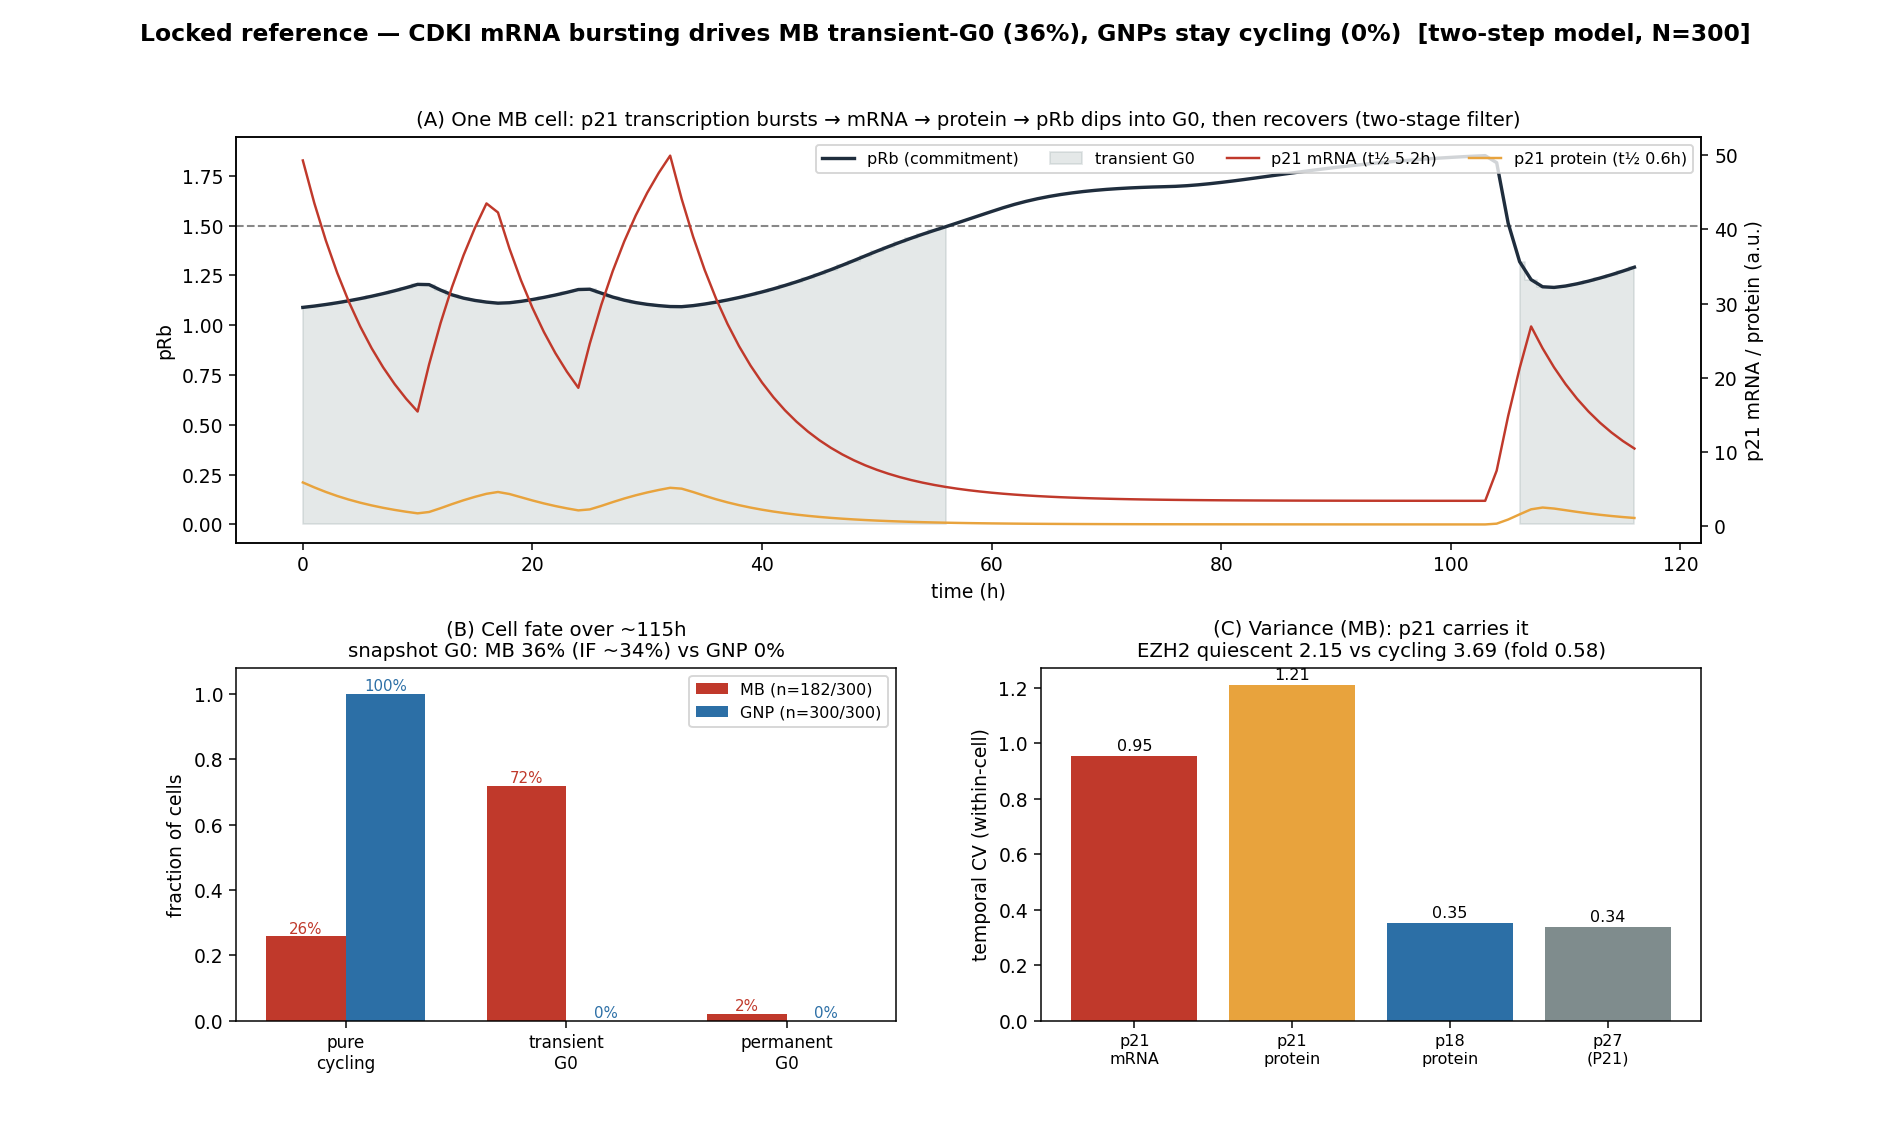
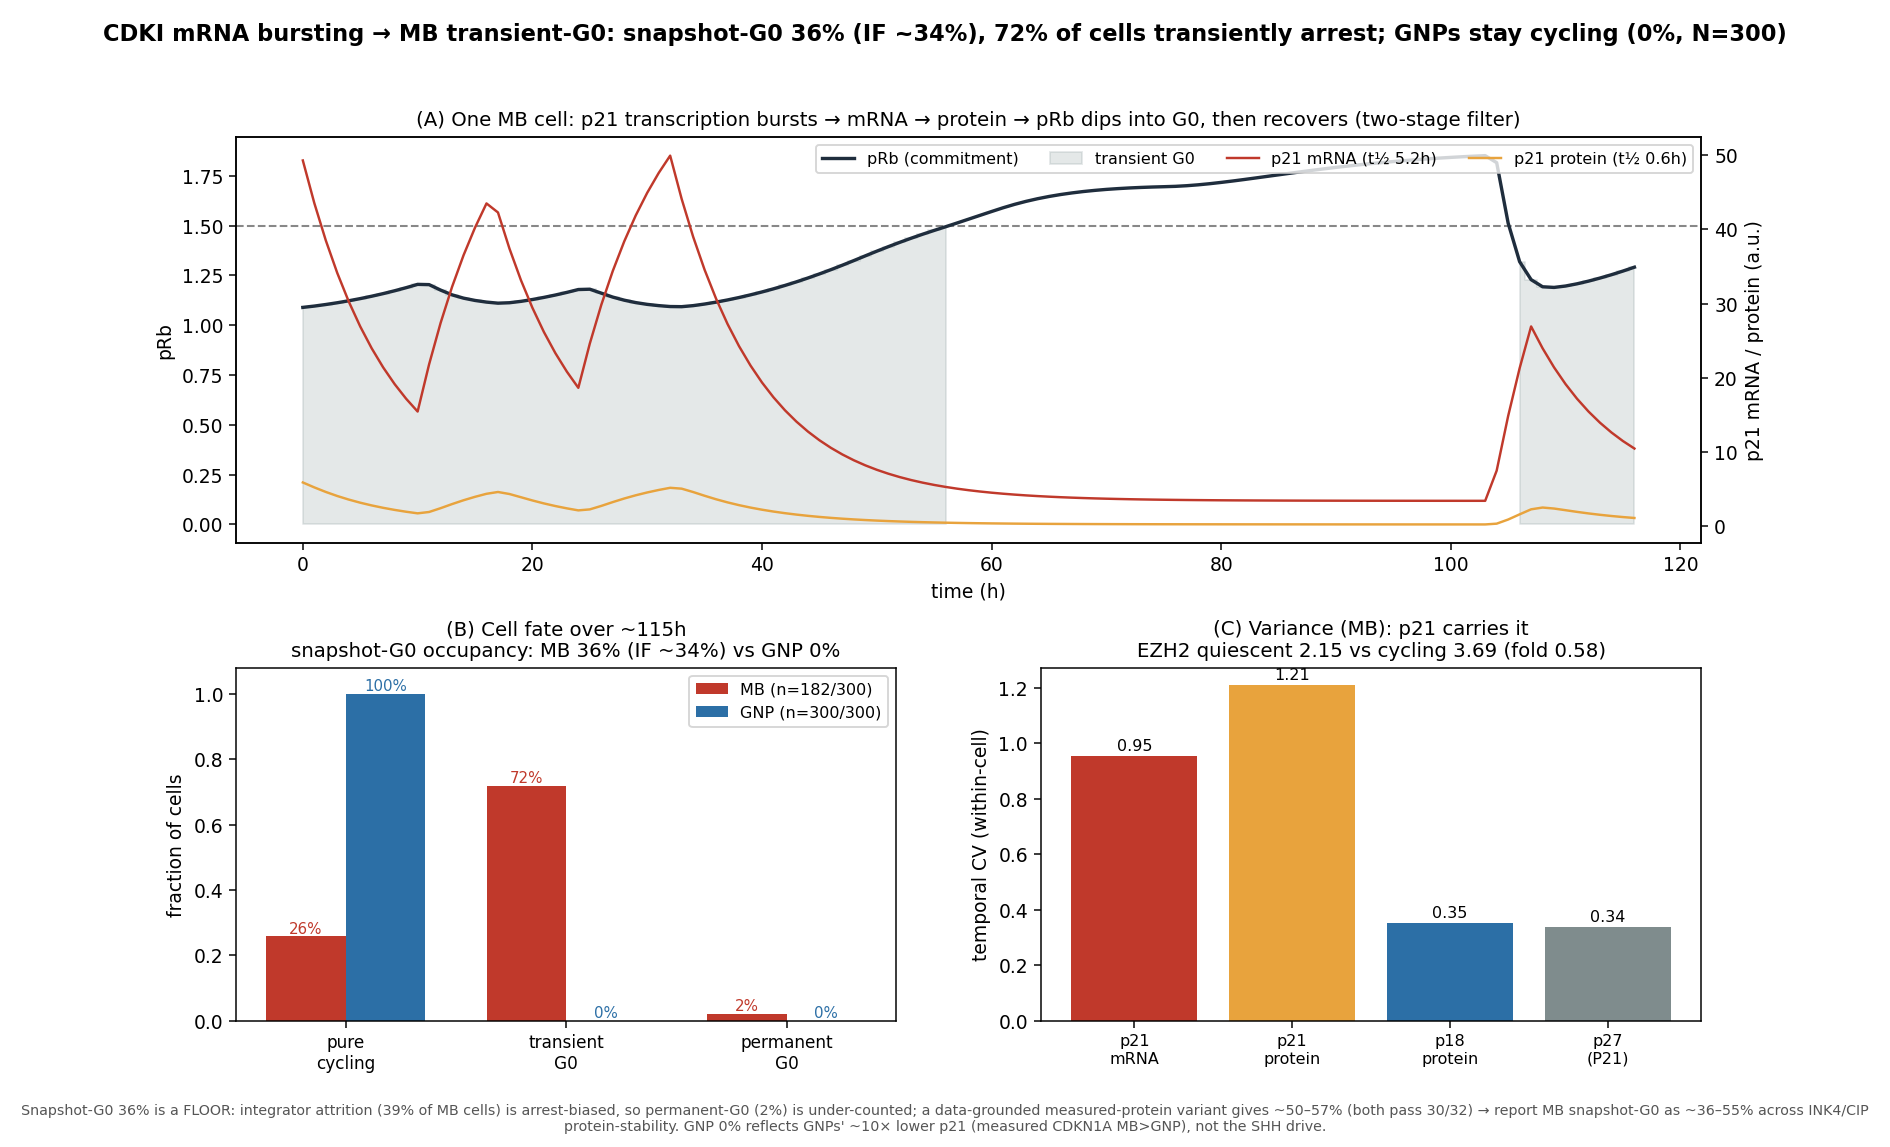
Lockdown review fixes: relabel snapshot-G0, honest range, drop stale figure
Post-review precision fixes (independent 4-dimension review confirmed the model/bake
are correct and steady-state-neutral; these are write-up/figure fixes only):
- Relabel "36% transient-G0" -> "snapshot-G0 occupancy 36%" (IF-comparable ~34%);
  state the transient-G0 CELL fraction (72%) separately. fig_overnight.py title/panel B,
  SUMMARY.md, memory. The 36% is the fraction of TIME in G0, not of cells.
- Report MB snapshot-G0 as a range ~36-55% (a FLOOR): the ~39% MB integrator attrition
  is arrest-biased so arrest/permanent are under-counted, and the data-grounded
  measured-protein variant gives ~50-57% while also passing 30/32. Caveats added to
  fig_overnight_lock.png footer, SUMMARY.md, and sim_overnight_master.py's writer.
- Frame GNP=0% as carried by GNPs' ~10x lower p21 (measured CDKN1A MB>GNP), not the SHH
  drive (at MB-level p21, GNP also arrests).
- "cures the integrator mortality" -> "reduces" (GNP 0%, MB ~50%->~39%, not eliminated):
  build_model_v44_heldt.py:459, sim_cdki_mrna_burst_g0.py docstring.
- Drop fig_cdki_mrna_burst.py: hardcoded an ephemeral scratchpad path (non-reproducible)
  and plotted a non-canonical 41%/N=100 run; fig_overnight.py (N=300, reads committed
  results.json) is the canonical figure.
- sim_ezh2_phaseplane.py: add with_cdk6_gli=False (pre-existing crash in the figure
  pipeline: the baked CDK6-Gli amplifier needs the H3K27 chain, absent in that script).
[…]

diff --git a/simulations/sim_pulse_response.py b/simulations/sim_pulse_response.py
@@ -1,0 +1,93 @@
+"""How does protein respond to a transcriptional burst, in our model? (JP 2026-10-19)
+
+Controlled pulse experiment on the baked two-step model (with_cdki_mrna): hold a cycling cell at steady
+state, then apply a defined square BURST to a CDKI's transcription knob (*_tx: 1 -> AMP for DUR, then back
+to 1), and record the transcription input, the mRNA species, and the protein species.
+
+We use p18 as the clean demonstrator: its expression module (transcription -> p18_m -> p18_prot) is fully
+DECOUPLED from the cell cycle (no E2f / Skp2 / Cdh1 / division terms), so the traces are the PURE two-stage
+low-pass with no confounds. Panel A: the canonical response (input -> mRNA -> protein). Panel B: the SAME
+burst with the protein half-life set to 0.6h (p21-like), 3.9h (p18 model-tuned) and 23.9h (p18 measured) --
+mRNA stage held fixed -- to show that a stable protein filters the burst out. p21/p27 map onto the fast/slow
+ends of this axis; p21's short protein is why it (not p18/p27) transmits bursts into transient-G0.
+"""
+import os, sys, numpy as np, tellurium as te
+sys.path.insert(0, os.path.dirname(os.path.dirname(os.path.abspath(__file__))))
+from src.build_model_v44_heldt import build_model_v44
+import matplotlib; matplotlib.use('Agg'); import matplotlib.pyplot as plt
+
+LN2 = 0.6931471805599453
+WARM = 9000.0          # long warmup so even a 24h-protein settles to steady state
+REC = 4800.0           # 80 h record window
+DTR = 15.0             # fine recording step (min)
+PULSE_T0 = 600.0       # burst starts 10 h into the record
+PULSE_DUR = 480.0      # 8 h burst
+AMP = 4.0              # transcription x4 during the burst
+SEL = ['p18_m', 'p18_prot']
+
+
+def run_pulse(kDe_p18_override=None):
+    """Warm up a cycling MB cell, then apply the p18 transcription burst; return t, tx(t), mRNA(t), prot(t)."""
+    rr = te.loada(build_model_v44())                 # baked default = two-step
+    rr.integrator.setValue('relative_tolerance', 1e-7); rr.integrator.setValue('absolute_tolerance', 1e-9)
+    rr.integrator.setValue('maximum_num_steps', 20000000)
+    rr['SHH'] = 0.5; rr['Ptch1_copy_number'] = 0.3
+    try: rr['Cd2_expr'] = rr['CD2_EXPR_MB']
+    except Exception: pass
+    if kDe_p18_override is not None:
+        rr['kDe_p18'] = kDe_p18_override             # protein decay (also scales synthesis; self-normalizing -> ss = p18)
+    rr['p18_tx'] = 1.0
+    rr.simulate(0, WARM, 50)                         # settle
+    t, tx, mr, pr = [], [], [], []
+    clock = 0.0
+    while clock < REC:
+        in_pulse = PULSE_T0 <= clock < PULSE_T0 + PULSE_DUR
+        rr['p18_tx'] = AMP if in_pulse else 1.0
+        r = rr.simulate(clock, clock + DTR, 2, selections=SEL)
+        t.append(clock + DTR); tx.append(AMP if in_pulse else 1.0)
+        mr.append(float(r['p18_m'][-1])); pr.append(float(r['p18_prot'][-1]))
+        clock += DTR
+    t = np.array(t) / 60.0                            # hours
+    mr = np.array(mr); pr = np.array(pr)
+    base = slice(0, int(PULSE_T0 / DTR) - 1)          # pre-pulse baseline for fold-normalisation
+    return t, np.array(tx), mr / np.mean(mr[base]), pr / np.mean(pr[base])
+
+
+# Panel A: canonical response (model-tuned p18, t1/2 3.9h)
+tA, txA, mrA, prA = run_pulse()
+# Panel B: protein-stability sweep (same mRNA stage; protein t1/2 = 0.6 / 3.9 / 23.9 h)
+cases = [('p21-like 0.6 h', LN2 / (0.6 * 60), '#c0392b'),
+         ('p18 tuned 3.9 h', LN2 / (3.9 * 60), '#e8a33d'),
+         ('p18 measured 23.9 h', LN2 / (23.9 * 60), '#2c6fa6')]
+sweep = [(lab, col, run_pulse(k)) for lab, k, col in cases]
+
+fig, (axA, axB) = plt.subplots(1, 2, figsize=(14, 5.4))
+fig.suptitle("How protein responds to a transcriptional burst (two-step model): transcription → mRNA → protein, each filtered by its half-life",
+             fontsize=12.5, fontweight='bold')
+
+# A
+axA.axvspan(PULSE_T0/60, (PULSE_T0+PULSE_DUR)/60, color='#ddd', alpha=0.6, lw=0, label='burst (tx ×4, 8 h)')
+axA.plot(tA, txA, color='#777', lw=1.4, ls=':', label='transcription rate (input)')
+axA.plot(tA, mrA, color='#c0392b', lw=2.0, label='p18 mRNA (t½ 3.7 h)')
+axA.plot(tA, prA, color='#1f6f54', lw=2.2, label='p18 protein (t½ 3.9 h)')
+axA.set_xlabel('time (h)'); axA.set_ylabel('fold vs baseline'); axA.legend(fontsize=9, loc='upper right')
+axA.set_title("(A) A step in transcription → mRNA rises/decays at its t½,\nprotein lags & smooths further — a two-stage low-pass", fontsize=10.5)
+axA.axhline(1, color='#ccc', lw=0.8)
+
+# B
+axB.axvspan(PULSE_T0/60, (PULSE_T0+PULSE_DUR)/60, color='#ddd', alpha=0.6, lw=0, label='burst (tx ×4, 8 h)')
+for lab, col, (t, tx, mr, pr) in sweep:
+    axB.plot(t, pr, color=col, lw=2.2, label=f'protein {lab}')
+axB.plot(tA, mrA, color='#555', lw=1.3, ls='--', label='mRNA (shared, t½ 3.7 h)')
+axB.axhline(1, color='#ccc', lw=0.8)
+axB.set_xlabel('time (h)'); axB.set_ylabel('protein fold vs baseline'); axB.legend(fontsize=9, loc='upper right')
+axB.set_title("(B) Same burst, protein t½ varied (mRNA stage fixed):\nstable protein filters the burst out — why p21 (fast) transmits it, p18/p27 (stable) buffer", fontsize=10.5)
+
+plt.tight_layout(rect=[0, 0, 1, 0.93])
+out = os.path.join(os.path.dirname(os.path.abspath(__file__)), 'overnight', 'fig_pulse_response.png')
+plt.savefig(out, dpi=140); print('saved', out)
+# quick numeric summary
+peak_m = mrA.max(); peak_p = prA.max()
+print(f"p18 (tuned): mRNA peak {peak_m:.2f}x, protein peak {peak_p:.2f}x fold")
+for lab, col, (t, tx, mr, pr) in sweep:
+    print(f"  protein peak [{lab}]: {pr.max():.2f}x")

diff --git a/src/build_model_v44_heldt.py b/src/build_model_v44_heldt.py
@@ -456,7 +456,7 @@ def build_model_v44(hu=None, with_ezh2=True, with_hh=True, with_growth=True,
                     with_p27_optionB=True, with_cdk6_gli=True, with_cd_hyper_escape=True,
                     with_mark_amplifier=False, with_proximal_distal=True,
                     measured_ccnd1=True, with_cdki_mrna=True, cdki_measured_protein=False,
-                    params=None):   # 2026-10-18 BAKED (JP overnight): with_cdki_mrna ON = default. Two-step CDKI expression (transcription->mRNA species->translation->protein); each CDKI carries an independent MEASURED mRNA t1/2 (~3.4-5.2h) + its protein t1/2; steady-state-neutral (30/32 = prior baseline); burst knobs *_tx don't leak to mu_eff; mRNA low-pass also removes the deep-arrest integrator stiffness. Legacy single-step via with_cdki_mrna=False. cdki_measured_protein (default OFF) additionally sets the INK4 p18 + p21 protein t1/2 to measured values.   # 2026-09-21 BAKED (JP): with_proximal_distal ON = default (two-compartment PRC2: distal Mk reservoir + proximal P_prox occupancy; expressed-but-marked while cycling P_prox~0, deep reservoir-sustained repression in arrest P_prox~0.70; MB transient G0 preserved via escape). Costs 1 noisy target (CyclinD1 GNP+HHi/GNP 0.08 vs 0.157) -> 30/32; loss is structural (deeper arrest raises shared mark), not w_cd_prox (barely moves it). Legacy via with_proximal_distal=False (31/32). 2026-08-09 BAKED: integrated governor (optionB p27 + CDK6-Gli 2nd arm) + CDK4/6-alone escape (MB transient G0). Legacy via the flags=False. 2026-07-30 BAKED: dynamic CDKI. 2026-08-01 BAKED: with_p21_pip_degron (un-map — restore inherited PIP-degron machinery p27->p21; species-correct re-cal, 30/32). 2026-08-05: with_p27_optionB (EXPLORATION, default OFF; Fan-Meyer p27-inhibitory CDK4/6 — buffered p27 = INACTIVE Cd, not counted in the Rb drive; needs re-cal before default)
+                    params=None):   # 2026-10-18 BAKED (JP overnight): with_cdki_mrna ON = default. Two-step CDKI expression (transcription->mRNA species->translation->protein); each CDKI carries an independent MEASURED mRNA t1/2 (~3.4-5.2h) + its protein t1/2; steady-state-neutral (30/32 = prior baseline); burst knobs *_tx don't leak to mu_eff; mRNA low-pass REDUCES (does not eliminate) the deep-arrest integrator stiffness (GNP mortality 0%, MB ~50%->~39%). Legacy single-step via with_cdki_mrna=False. cdki_measured_protein (default OFF) additionally sets the INK4 p18 + p21 protein t1/2 to measured values.   # 2026-09-21 BAKED (JP): with_proximal_distal ON = default (two-compartment PRC2: distal Mk reservoir + proximal P_prox occupancy; expressed-but-marked while cycling P_prox~0, deep reservoir-sustained repression in arrest P_prox~0.70; MB transient G0 preserved via escape). Costs 1 noisy target (CyclinD1 GNP+HHi/GNP 0.08 vs 0.157) -> 30/32; loss is structural (deeper arrest raises shared mark), not w_cd_prox (barely moves it). Legacy via with_proximal_distal=False (31/32). 2026-08-09 BAKED: integrated governor (optionB p27 + CDK6-Gli 2nd arm) + CDK4/6-alone escape (MB transient G0). Legacy via the flags=False. 2026-07-30 BAKED: dynamic CDKI. 2026-08-01 BAKED: with_p21_pip_degron (un-map — restore inherited PIP-degron machinery p27->p21; species-correct re-cal, 30/32). 2026-08-05: with_p27_optionB (EXPLORATION, default OFF; Fan-Meyer p27-inhibitory CDK4/6 — buffered p27 = INACTIVE Cd, not counted in the Rb drive; needs re-cal before default)
     """Build v44 = Heldt 2018 core + mitotic switch + HU->fork-speed coupling.
 
     with_ezh2=True (default): add the EZH2 epigenetic layer and make CyclinD (Cd) dynamic.

diff --git a/simulations/fig_overnight.py b/simulations/fig_overnight.py
@@ -10,8 +10,8 @@ DT = 30.0; THR = 1.5
 
 # ---------- Figure 1: locked reference ----------
 fig = plt.figure(figsize=(14, 8.5))
-fig.suptitle(f"Locked reference — CDKI mRNA bursting drives MB transient-G0 ({mb['occ']:.0%}), GNPs stay cycling ({gnp['occ']:.0%})  [two-step model, N={mb['N']}]",
-             fontsize=12.5, fontweight='bold')
+fig.suptitle(f"CDKI mRNA bursting → MB transient-G0: snapshot-G0 {mb['occ']:.0%} (IF ~34%), {mb['transient']:.0%} of cells transiently arrest; GNPs stay cycling ({gnp['occ']:.0%}, N={mb['N']})",
+             fontsize=12, fontweight='bold')
 gs = fig.add_gridspec(2, 2, height_ratios=[1.15, 1], hspace=0.33, wspace=0.22)
 
 axA = fig.add_subplot(gs[0, :])
@@ -34,7 +34,7 @@ axB.bar(x + w/2, [gnp['cyc'], gnp['transient'], gnp['perm']], w, color='#2c6fa6'
 for xi, v in zip(x - w/2, [mb['cyc'], mb['transient'], mb['perm']]): axB.text(xi, v + 0.01, f'{v:.0%}', ha='center', fontsize=8, color='#c0392b')
 for xi, v in zip(x + w/2, [gnp['cyc'], gnp['transient'], gnp['perm']]): axB.text(xi, v + 0.01, f'{v:.0%}', ha='center', fontsize=8, color='#2c6fa6')
 axB.set_xticks(x); axB.set_xticklabels(cats, fontsize=9); axB.set_ylim(0, 1.08); axB.set_ylabel('fraction of cells'); axB.legend(fontsize=8.5)
-axB.set_title(f"(B) Cell fate over ~115h\nsnapshot G0: MB {mb['occ']:.0%} (IF ~34%) vs GNP {gnp['occ']:.0%}", fontsize=10.5)
+axB.set_title(f"(B) Cell fate over ~115h\nsnapshot-G0 occupancy: MB {mb['occ']:.0%} (IF ~34%) vs GNP {gnp['occ']:.0%}", fontsize=10.5)
 
 axC = fig.add_subplot(gs[1, 1])
 labels = ['p21\nmRNA', 'p21\nprotein', 'p18\nprotein', 'p27\n(P21)']
@@ -43,7 +43,12 @@ axC.bar(range(4), vals, color=['#c0392b', '#e8a33d', '#2c6fa6', '#7f8c8d'])
 for i, v in enumerate(vals): axC.text(i, v + 0.02, f'{v:.2f}', ha='center', fontsize=8.5)
 axC.set_xticks(range(4)); axC.set_xticklabels(labels, fontsize=8.5); axC.set_ylabel('temporal CV (within-cell)')
 axC.set_title(f"(C) Variance (MB): p21 carries it\nEZH2 quiescent {mb['ezh2_q']:.2f} vs cycling {mb['ezh2_c']:.2f} (fold {mb['ezh2_q']/mb['ezh2_c']:.2f})", fontsize=10.5)
-plt.tight_layout(rect=[0, 0, 1, 0.95])
+fig.text(0.5, 0.012,
+         f"Snapshot-G0 {mb['occ']:.0%} is a FLOOR: integrator attrition ({mb['mortality']:.0%} of MB cells) is arrest-biased, so permanent-G0 ({mb['perm']:.0%}) is under-counted; "
+         f"a data-grounded measured-protein variant gives ~50–57% (both pass 30/32) → report MB snapshot-G0 as ~36–55% across INK4/CIP protein-stability. "
+         f"GNP 0% reflects GNPs' ~10× lower p21 (measured CDKN1A MB>GNP), not the SHH drive.",
+         ha='center', va='bottom', fontsize=7.6, color='#555', wrap=True)
+plt.tight_layout(rect=[0, 0.045, 1, 0.95])
 f1 = os.path.join(OUT, 'fig_overnight_lock.png'); plt.savefig(f1, dpi=135); print('saved', f1)
 
 # ---------- Figure 2: 2x2 attribution ----------

diff --git a/simulations/sim_overnight_master.py b/simulations/sim_overnight_master.py
@@ -260,7 +260,12 @@ try:
     lines.append("\n## Phase C — bake confirmation")
     lines.append(f"- baked default (two-step ON): {g('phaseC_baked_default','summary')}")
     lines.append(f"- legacy single-step (CDKI_MRNA=0): {g('phaseC_legacy','summary')}")
-    lines.append("\n## Files\n- overnight/results.json (all metrics) · overnight/progress.log (timeline)")
+    lines.append("\n## Caveats for the locked claim (post-review 2026-10-19)")
+    lines.append("- 36% is a snapshot-G0 OCCUPANCY (fraction of time in G0, IF-comparable ~34%); the fraction of CELLS with a transient-G0 excursion is the 'transient' number above (~72%). Do not call 36% 'the transient-G0 fraction'.")
+    lines.append("- 36% is a FLOOR: ~39% MB integrator attrition is arrest-biased, so arrest/permanent are under-counted (fate fractions are over survivors).")
+    lines.append("- Not identifiable from validation: the measured-protein variant gives ~50-57% and also passes 30/32 -> report MB snapshot-G0 as ~36-55% across INK4/CIP protein-stability.")
+    lines.append("- GNP 0% is carried by GNPs' ~10x lower p21 (GNP_P21_FAC=0.1, measured CDKN1A MB>GNP), NOT the SHH drive. The mRNA low-pass REDUCES (not cures) MB mortality (~50%->~39%; GNP 0%).")
+    lines.append("\n## Files\n- overnight/results.json (all metrics) · overnight/progress.log (timeline) · fig_overnight_lock.png / fig_overnight_attribution.png")
     open(os.path.join(OUT, 'SUMMARY.md'), 'w').write("\n".join(lines) + "\n")
     log("SUMMARY.md written.")
 except Exception as e:

diff --git a/simulations/sim_ezh2_phaseplane.py b/simulations/sim_ezh2_phaseplane.py
@@ -32,7 +32,7 @@ from src.build_model_v44_heldt import build_model_v44
 FRESH = '--fresh' in sys.argv
 CACHE = 'simulations/fig_v44_ezh2_phaseplane_cache.npz'
 
-rr = te.loada(build_model_v44(with_ezh2=True, with_hh=True, with_prc2=False, with_h3k27_chain=False))  # legacy w_ezdir mark-Hill model (f0_mk/K_mk/n_mk); this analysis predates the PRC2/chain repression
+rr = te.loada(build_model_v44(with_ezh2=True, with_hh=True, with_prc2=False, with_h3k27_chain=False, with_cdk6_gli=False))  # legacy w_ezdir mark-Hill model (f0_mk/K_mk/n_mk); this analysis predates the PRC2/chain repression. with_cdk6_gli=False required: the baked CDK6-Gli mark-memory amplifier needs the H3K27 chain (PRC2_rep), absent here.
 rr.integrator.setValue("absolute_tolerance", 1e-9)
 rr.integrator.setValue("relative_tolerance", 1e-6)
 

diff --git a/simulations/sim_cdki_mrna_burst_g0.py b/simulations/sim_cdki_mrna_burst_g0.py
@@ -8,7 +8,8 @@ NEVER leaks into mu_eff (which reads the static p18 level). This replaces the ea
 
 p21 is the dominant crossing driver (short protein tracks its mRNA); p18 secondary. GNP is genuinely
 low-CDKI + high-SHH (proliferating) -> stays cycling. Records mRNA AND protein so we can see the two-stage
-filtering. Bonus check: whether the smooth mRNA low-pass cures the deep-arrest integrator mortality.
+filtering. Bonus: the smooth mRNA low-pass REDUCES the deep-arrest integrator mortality (GNP 0%, MB ~50%->~39%
+with the baked config) -- it does NOT eliminate it; residual MB failures remain concentrated in deep arrest.
 """
 import sys, os, json, numpy as np, tellurium as te
 sys.path.insert(0, os.path.dirname(os.path.dirname(os.path.abspath(__file__))))

diff --git a/simulations/overnight/SUMMARY.md b/simulations/overnight/SUMMARY.md
@@ -20,5 +20,12 @@ Started 2026-10-18 21:02:21.019220 · finished 2026-10-18 21:10:52.125929
 - baked default (two-step ON): VALIDATION SUMMARY: 30/32 targets passed
 - legacy single-step (CDKI_MRNA=0): VALIDATION SUMMARY: 30/32 targets passed
 
+## Caveats for the locked claim (post-review 2026-10-19)
+- **36% is a snapshot-G0 occupancy (fraction of time below pRb<1.5), IF-comparable (~34%); 72% is the fraction of CELLS with a transient-G0 excursion.** Do not call 36% "the transient-G0 fraction".
+- **36% is a FLOOR.** The ~39% MB integrator attrition is arrest-biased (failing cells die at pRb~1.38, in the arrested state), so arrest is under-counted and "permanent 2%" is an under-estimate. Fate fractions are over survivors.
+- **The number is not identifiable from validation alone:** the data-grounded measured-protein variant gives ~50–57% and *also* passes 30/32. Report MB snapshot-G0 as **~36–55% across INK4/CIP protein-stability assumptions**, with model-tuned 36% as the lower, cleaner-permanent (2%) point.
+- **GNP 0% is carried by GNPs' ~10× lower p21** (GNP_P21_FAC=0.1, the measured CDKN1A MB>GNP difference), NOT the SHH drive — at MB-level p21 with the same high drive, GNP also arrests. The dichotomy is the p21 difference (consistent with the "MB has substantially higher CDKI" mechanism).
+- The mRNA low-pass **reduces** the deep-arrest integrator mortality (GNP 0%, MB ~50%→~39%); it does not eliminate it.
+
 ## Files
-- overnight/results.json (all metrics) · overnight/progress.log (timeline)
+- overnight/results.json (all metrics) · overnight/progress.log (timeline) · fig_overnight_lock.png / fig_overnight_attribution.png
